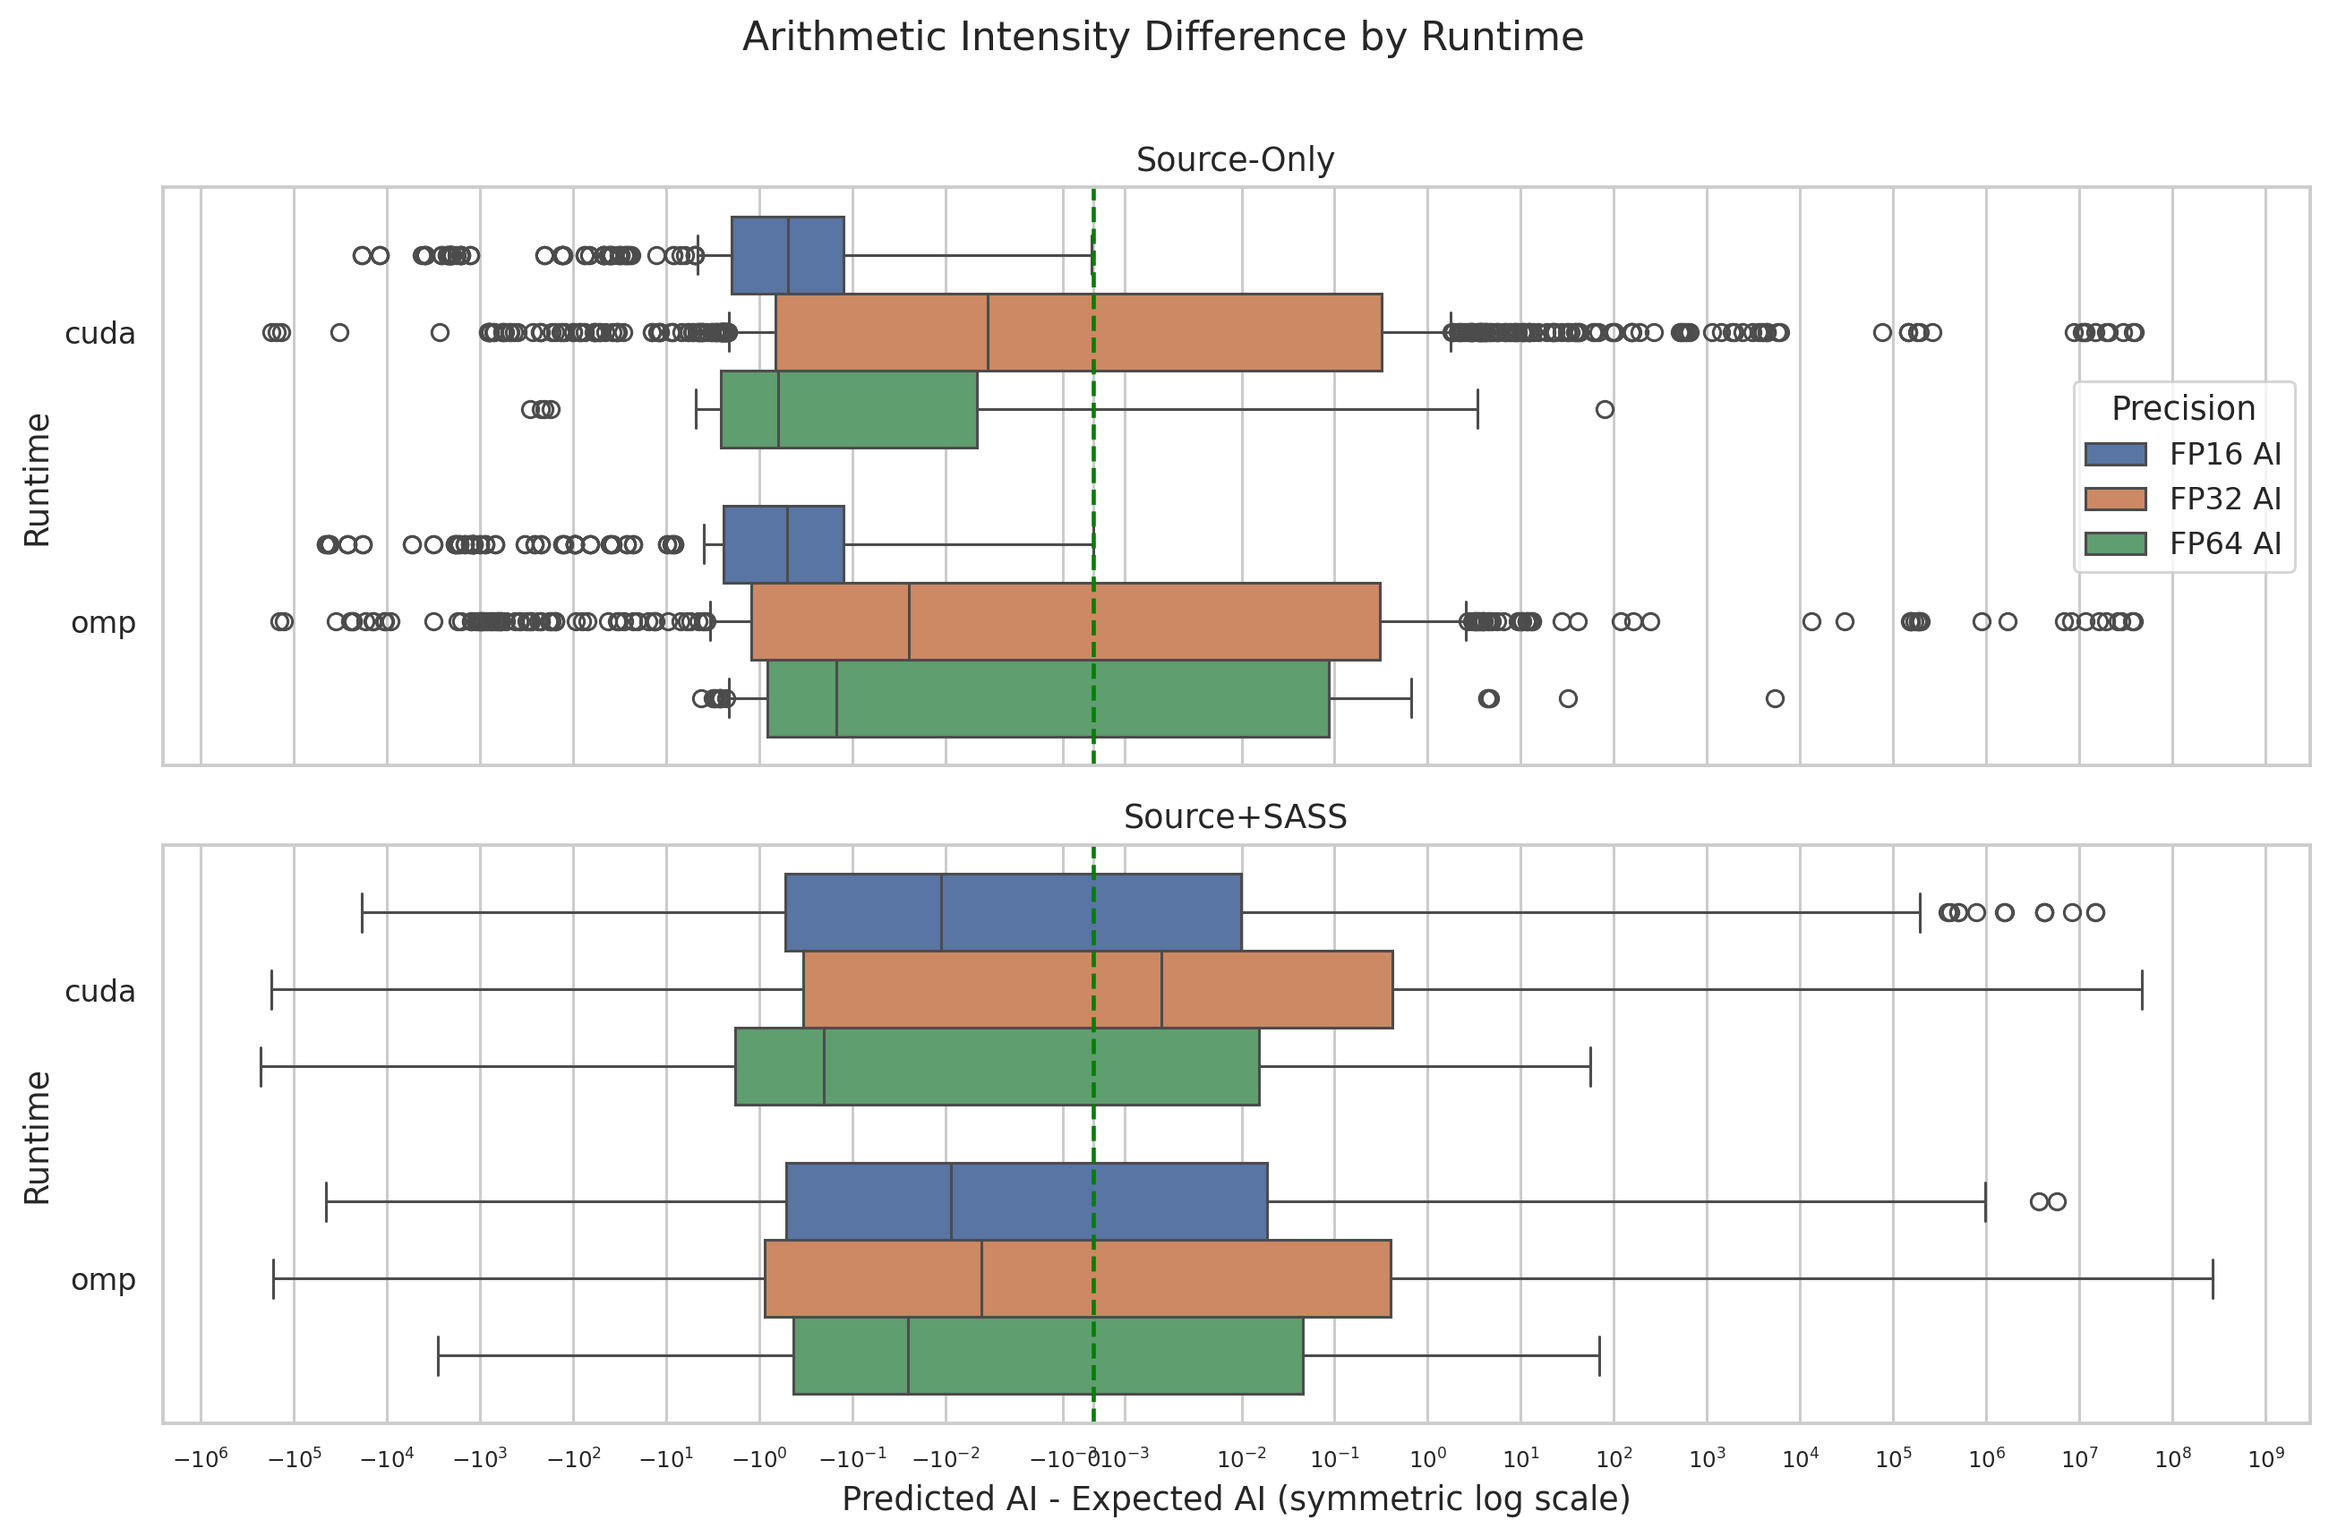
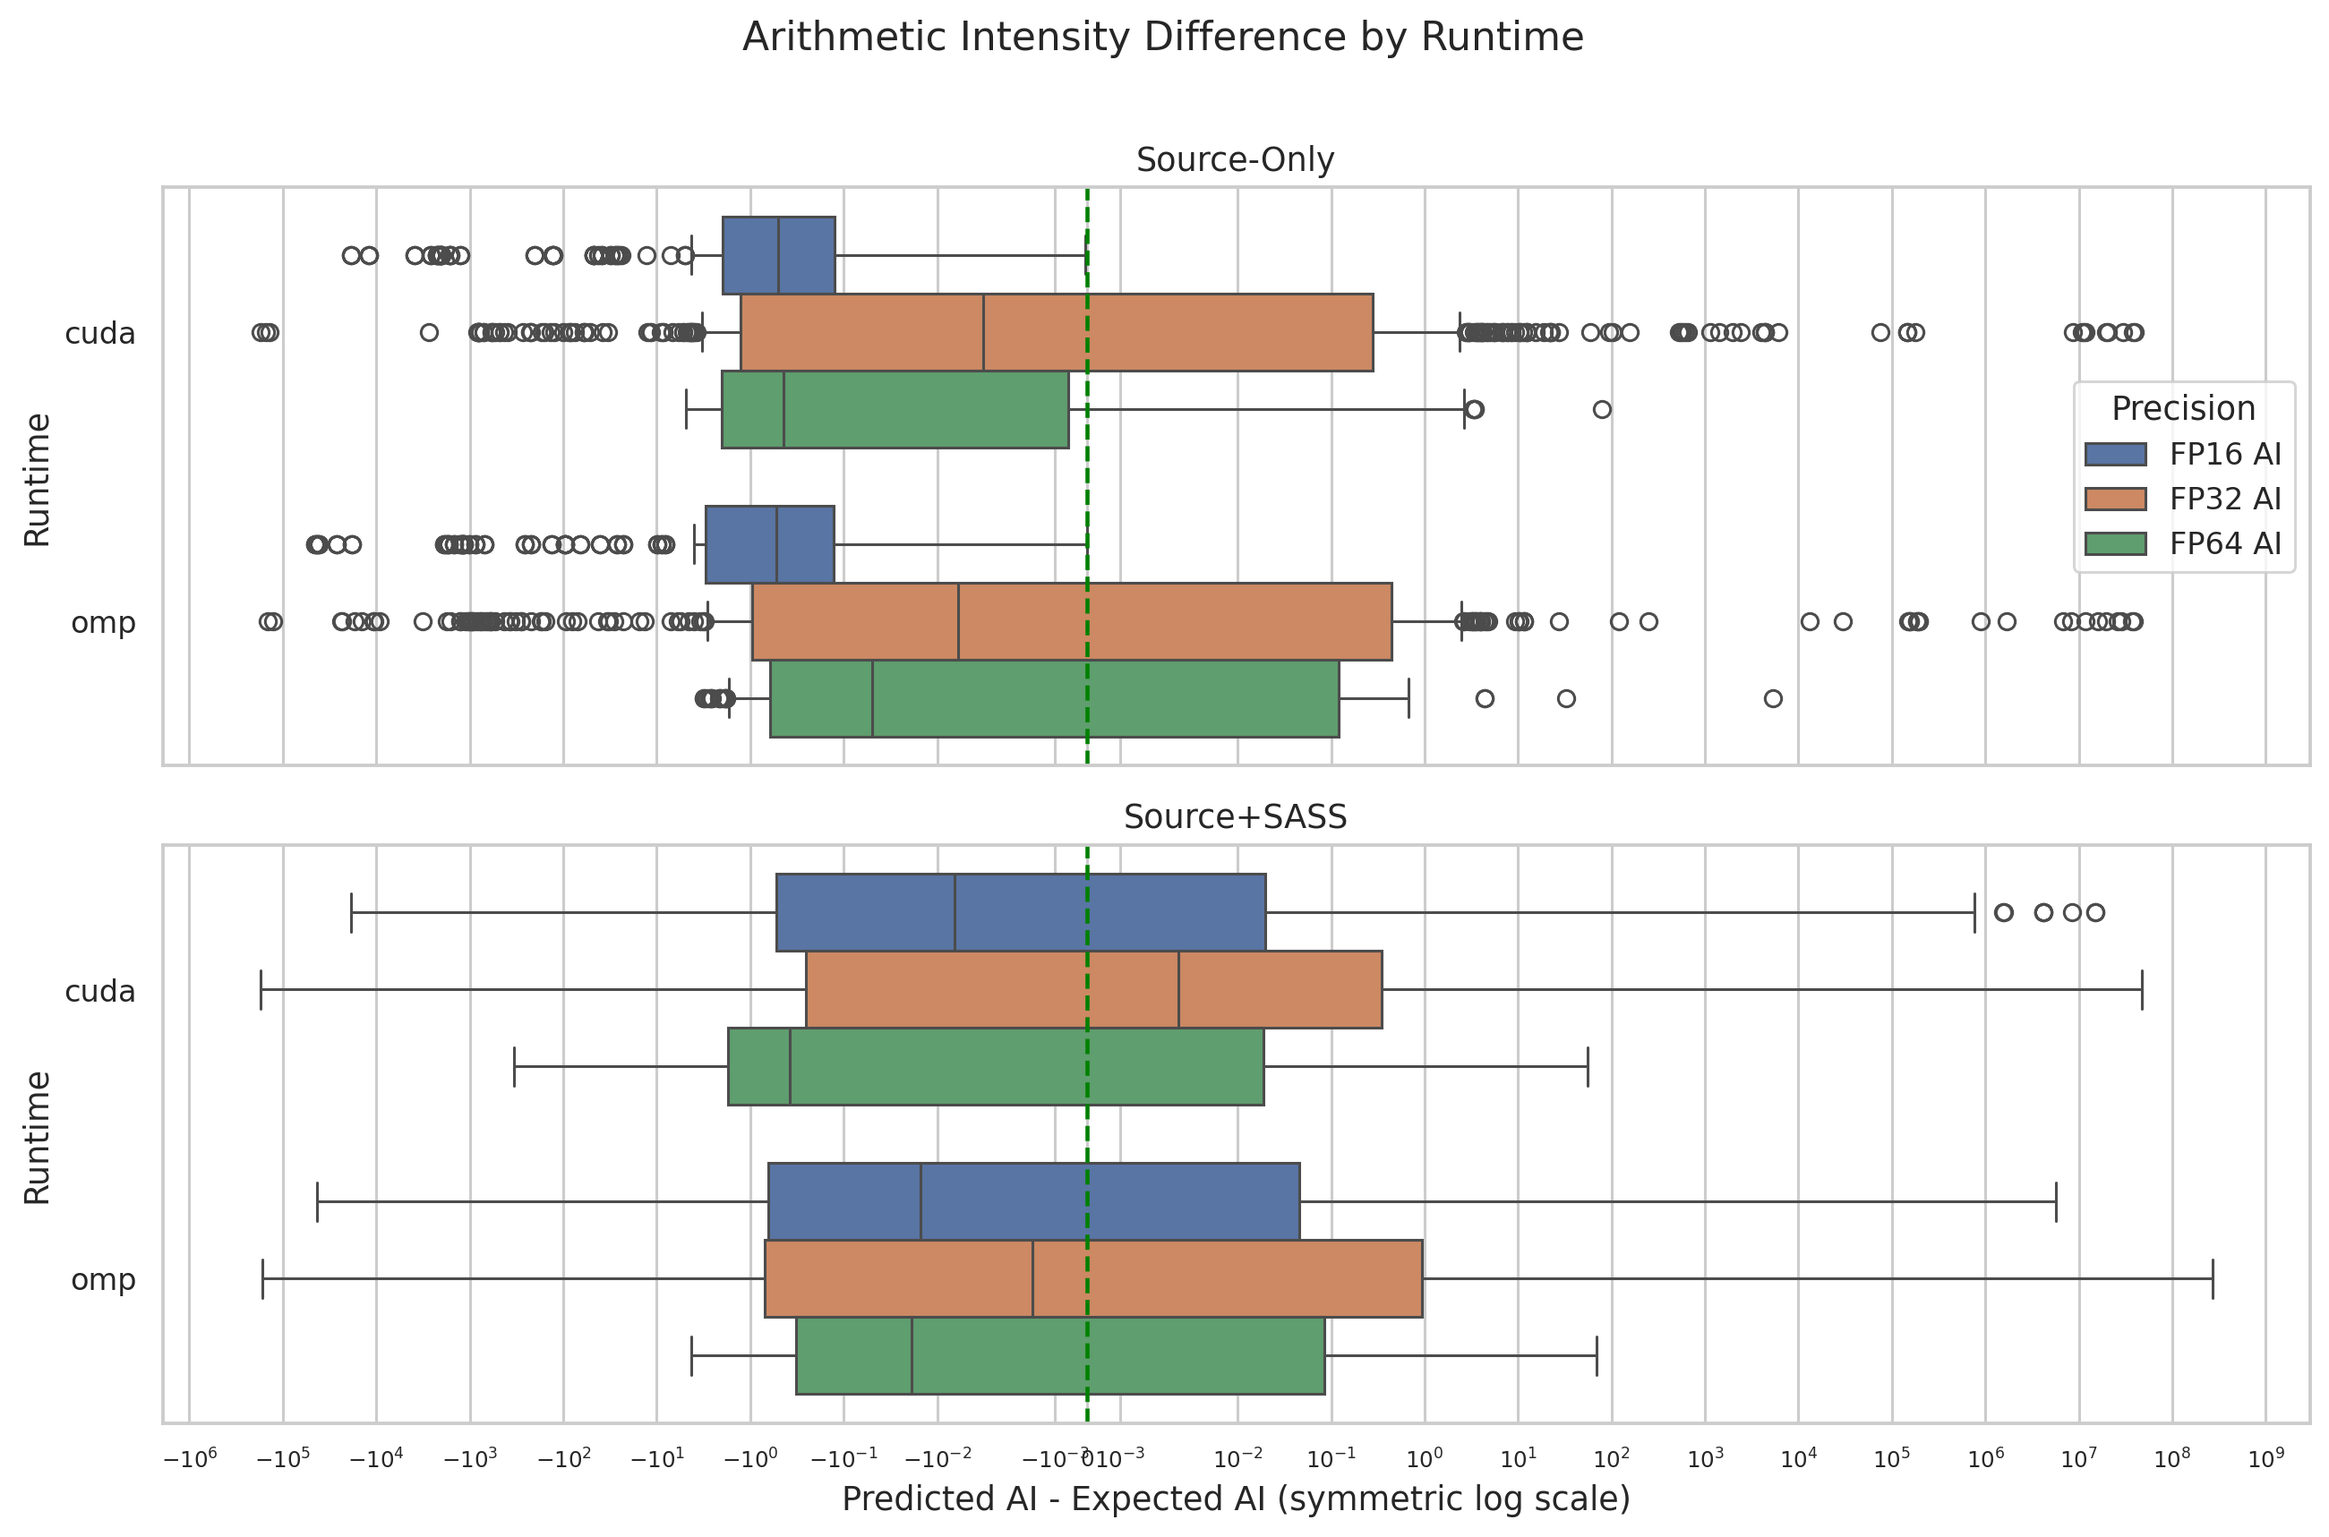
added sample overlap filter for comparable results

diff --git a/unit-tests/test_direct_prompting_evidence_config.py b/unit-tests/test_direct_prompting_evidence_config.py
@@ -1,6 +1,7 @@
 import importlib.util
 from pathlib import Path
 
+import pandas as pd
 import pytest
 
 
@@ -19,6 +20,7 @@ def _load_module(module_name: str, relative_path: str):
 prompts = _load_module("direct_prompting_prompts", "experiments/direct-prompting/prompts.py")
 run_queries = _load_module("direct_prompting_run_queries", "experiments/direct-prompting/run_queries.py")
 visualize_results = _load_module("direct_prompting_visualize_results", "experiments/direct-prompting/visualize_results.py")
+make_plots_for_paper = _load_module("direct_prompting_make_plots_for_paper", "experiments/direct-prompting/make_plots_for_paper.py")
 db_manager = _load_module("direct_prompting_db_manager", "experiments/direct-prompting/db_manager.py")
 
 
@@ -82,6 +84,26 @@ def _completed_channel_values(**overrides):
     }
     channel_values.update(overrides)
     return channel_values
+
+
+def _shared_sample_row(**overrides):
+    row = {
+        "thread_id": "thread-0",
+        "status": "completed",
+        "program_name": "demo-cuda",
+        "runtime": "cuda",
+        "kernel_mangled_name": "_Z4demov",
+        "kernel_demangled_name": "demo()",
+        "model_name": "openai/gpt-5.4",
+        "safe_model_name": "openai_gpt-5.4",
+        "use_sass": False,
+        "use_imix": False,
+        "evidence_configuration": "No SASS / No IMIX",
+        "gpu": "A100",
+        "trial": 0,
+    }
+    row.update(overrides)
+    return row
 
 
 @pytest.mark.parametrize(
@@ -320,3 +342,80 @@ def test_database_dataframe_uses_valid_tails_and_ignores_skipped_invalid_threads
 
     assert samples_df["thread_id"].tolist() == [valid_thread_id]
     assert samples_df.iloc[0]["status"] == "completed"
+
+
+def test_filter_only_shared_samples_keeps_only_identities_present_for_all_models():
+    dataframe = pd.DataFrame(
+        [
+            _shared_sample_row(thread_id="model-a-shared", model_name="model-a"),
+            _shared_sample_row(thread_id="model-b-shared", model_name="model-b"),
+            _shared_sample_row(thread_id="model-a-missing", model_name="model-a", kernel_mangled_name="_Z7missedv"),
+        ]
+    )
+
+    filtered = visualize_results._filter_only_shared_samples(dataframe)
+
+    assert set(filtered["thread_id"].tolist()) == {"model-a-shared", "model-b-shared"}
+    assert set(filtered["model_name"].tolist()) == {"model-a", "model-b"}
+    assert set(filtered["kernel_mangled_name"].tolist()) == {"_Z4demov"}
+
+
+def test_filter_only_shared_samples_uses_completed_rows_for_eligibility():
+    dataframe = pd.DataFrame(
+        [
+            _shared_sample_row(thread_id="model-a-completed", model_name="model-a"),
+            _shared_sample_row(thread_id="model-b-failed", model_name="model-b", status="failed"),
+            _shared_sample_row(thread_id="model-a-other", model_name="model-a", kernel_mangled_name="_Z5otherv"),
+            _shared_sample_row(thread_id="model-b-other", model_name="model-b", kernel_mangled_name="_Z5otherv"),
+        ]
+    )
+
+    filtered = visualize_results._filter_only_shared_samples(dataframe)
+
+    assert set(filtered["thread_id"].tolist()) == {"model-a-other", "model-b-other"}
+    assert "model-b-failed" not in filtered["thread_id"].tolist()
+
+
+def test_filter_only_shared_samples_keeps_gpu_and_evidence_configuration_in_key():
+    dataframe = pd.DataFrame(
+        [
+            _shared_sample_row(thread_id="a100-model-a", model_name="model-a"),
+            _shared_sample_row(thread_id="a100-model-b", model_name="model-b"),
+            _shared_sample_row(thread_id="h100-model-a", model_name="model-a", gpu="H100"),
+            _shared_sample_row(thread_id="sass-model-a", model_name="model-a", use_sass=True, evidence_configuration="SASS Only"),
+            _shared_sample_row(thread_id="sass-model-b", model_name="model-b", use_sass=True, evidence_configuration="SASS Only"),
+            _shared_sample_row(thread_id="imix-model-a", model_name="model-a", use_imix=True, evidence_configuration="IMIX Only"),
+        ]
+    )
+
+    filtered = visualize_results._filter_only_shared_samples(dataframe)
+
+    assert set(filtered["thread_id"].tolist()) == {
+        "a100-model-a",
+        "a100-model-b",
+        "sass-model-a",
+        "sass-model-b",
+    }
+    assert "h100-model-a" not in filtered["thread_id"].tolist()
+    assert "imix-model-a" not in filtered["thread_id"].tolist()
+
+
+def test_visualize_results_parser_accepts_only_shared_samples_flag():
+    parser = visualize_results.build_arg_parser()
+
+    default_args = parser.parse_args([])
+    flagged_args = parser.parse_args(["--onlySharedSamples", "--includeIMIX"])
+
+    assert default_args.onlySharedSamples is False
+    assert flagged_args.onlySharedSamples is True
+    assert flagged_args.includeIMIX is True
+
+
+def test_make_plots_for_paper_parser_accepts_only_shared_samples_flag():
+    parser = make_plots_for_paper.build_arg_parser()
+
+    default_args = parser.parse_args([])
+    flagged_args = parser.parse_args(["--onlySharedSamples"])
+
+    assert default_args.onlySharedSamples is False
+    assert flagged_args.onlySharedSamples is True

diff --git a/experiments/direct-prompting/visualize_results.py b/experiments/direct-prompting/visualize_results.py
@@ -512,6 +512,47 @@ def _database_dataframe(latest_checkpoints: Dict[str, Dict[str, Any]], attempts:
 	return full_df
 
 
+def _shared_sample_identity_columns() -> List[str]:
+	return ["program_name", "kernel_mangled_name", "gpu", "use_sass", "use_imix"]
+
+
+def _filter_only_shared_samples(dataframe: pd.DataFrame) -> pd.DataFrame:
+	if dataframe.empty:
+		return dataframe.copy()
+
+	required_columns = _shared_sample_identity_columns() + ["model_name", "status"]
+	missing_columns = [column for column in required_columns if column not in dataframe.columns]
+	if missing_columns:
+		raise KeyError(f"Shared-sample filtering requires columns {missing_columns}")
+
+	filtered_df = dataframe.copy()
+	filtered_df["use_sass"] = filtered_df["use_sass"].fillna(False).astype(bool)
+	filtered_df["use_imix"] = filtered_df["use_imix"].fillna(False).astype(bool)
+	filtered_df = filtered_df[filtered_df["model_name"].notna()].copy()
+	if filtered_df.empty:
+		return filtered_df
+
+	all_models = set(filtered_df["model_name"].dropna().unique().tolist())
+	if not all_models:
+		return filtered_df.iloc[0:0].copy()
+
+	completed_df = filtered_df[filtered_df["status"] == "completed"].copy()
+	if completed_df.empty:
+		return filtered_df.iloc[0:0].copy()
+
+	shared_sample_counts = (
+		completed_df.groupby(_shared_sample_identity_columns(), dropna=False)["model_name"]
+		.nunique()
+		.reset_index(name="model_count")
+	)
+	shared_sample_counts = shared_sample_counts[shared_sample_counts["model_count"] == len(all_models)].copy()
+	if shared_sample_counts.empty:
+		return filtered_df.iloc[0:0].copy()
+
+	shared_sample_keys = shared_sample_counts[_shared_sample_identity_columns()].drop_duplicates()
+	return filtered_df.merge(shared_sample_keys, on=_shared_sample_identity_columns(), how="inner")
+
+
 def _plot_evidence_configuration_label(use_sass: Any, use_imix: Any) -> str:
 	return PLOT_EVIDENCE_CONFIGURATION_LABELS[(bool(use_sass), bool(use_imix))]
 
@@ -1171,7 +1212,7 @@ def _write_suggestions(output_path: Path) -> None:
 	output_path.write_text("\n".join(f"- {item}" for item in suggestions) + "\n", encoding="utf-8")
 
 
-def build_visualizations(db_uri: str, output_dir: Path, include_dry_run: bool, include_imix: bool) -> None:
+def build_visualizations(db_uri: str, output_dir: Path, include_dry_run: bool, include_imix: bool, only_shared_samples: bool) -> None:
 	output_dir.mkdir(parents=True, exist_ok=True)
 
 	parser = CheckpointDBParser(db_uri)
@@ -1210,6 +1251,8 @@ def build_visualizations(db_uri: str, output_dir: Path, include_dry_run: bool, i
 			)
 
 	samples_df = _database_dataframe(tail_checkpoints, attempts, include_dry_run)
+	if only_shared_samples:
+		samples_df = _filter_only_shared_samples(samples_df)
 
 	if samples_df.empty:
 		raise RuntimeError("No matching checkpoint or failed-attempt records were found in the database.")
@@ -1319,7 +1362,7 @@ def build_visualizations(db_uri: str, output_dir: Path, include_dry_run: bool, i
 		print(f"- {path}")
 
 
-def main() -> None:
+def build_arg_parser() -> argparse.ArgumentParser:
 	parser = argparse.ArgumentParser(description="Visualize direct prompting results from PostgreSQL checkpoints")
 	parser.add_argument("--dbUri", type=str, default=None, help="Explicit PostgreSQL database URI. Defaults to the local gpuflops_db database.")
 	parser.add_argument(
@@ -1338,11 +1381,21 @@ def main() -> None:
 		action="store_true",
 		help="Include Source+IMIX and Source+SASS+IMIX categories in the plots. By default, plots show only Source-Only and Source+SASS.",
 	)
+	parser.add_argument(
+		"--onlySharedSamples",
+		action="store_true",
+		help="Keep only kernel samples that have at least one completed row for every model name, matched by program name, kernel name, GPU, and evidence configuration.",
+	)
+	return parser
+
+
+def main() -> None:
+	parser = build_arg_parser()
 	args = parser.parse_args()
 
 	ensure_postgres_running()
 	db_uri = args.dbUri or setup_default_database()
-	build_visualizations(db_uri, Path(args.outputDir), args.includeDryRun, args.includeIMIX)
+	build_visualizations(db_uri, Path(args.outputDir), args.includeDryRun, args.includeIMIX, args.onlySharedSamples)
 
 
 if __name__ == "__main__":

diff --git a/experiments/direct-prompting/make_plots_for_paper.py b/experiments/direct-prompting/make_plots_for_paper.py
@@ -843,13 +843,15 @@ def _save_figure2_bound_heatmaps(plot_df: pd.DataFrame, output_path: Path) -> No
 	plt.close(fig)
 
 
-def build_paper_plots(db_uri: str, output_dir: Path, include_dry_run: bool) -> None:
+def build_paper_plots(db_uri: str, output_dir: Path, include_dry_run: bool, only_shared_samples: bool) -> None:
 	output_dir.mkdir(parents=True, exist_ok=True)
 	samples_df = _load_samples_dataframe(db_uri, include_dry_run)
 	if samples_df.empty:
 		raise RuntimeError("No matching checkpoint or failed-attempt records were found in the database.")
 
 	completed_df = _enrich_completed_dataframe(samples_df)
+	if only_shared_samples:
+		completed_df = visualize_results._filter_only_shared_samples(completed_df)
 	plot_df = _paper_subset(completed_df)
 	if plot_df.empty:
 		raise RuntimeError(
@@ -878,7 +880,7 @@ def build_paper_plots(db_uri: str, output_dir: Path, include_dry_run: bool) -> N
 	print(f"- {figure5_path}")
 
 
-def main() -> None:
+def build_arg_parser() -> argparse.ArgumentParser:
 	arg_parser = argparse.ArgumentParser(description="Generate paper plots from direct-prompting PostgreSQL checkpoints")
 	arg_parser.add_argument(
 		"--dbUri",
@@ -897,12 +899,22 @@ def main() -> None:
 		action="store_true",
 		help="Include dry-run thread IDs in the paper plots. By default they are excluded.",
 	)
+	arg_parser.add_argument(
+		"--onlySharedSamples",
+		action="store_true",
+		help="Keep only kernel samples that have at least one completed row for every model name, matched by program name, kernel name, GPU, and evidence configuration.",
+	)
+	return arg_parser
+
+
+def main() -> None:
+	arg_parser = build_arg_parser()
 	args = arg_parser.parse_args()
 
 	_print_roofline_specs()
 	visualize_results.ensure_postgres_running()
 	db_uri = args.dbUri or visualize_results.setup_default_database()
-	build_paper_plots(db_uri, Path(args.outputDir), args.includeDryRun)
+	build_paper_plots(db_uri, Path(args.outputDir), args.includeDryRun, args.onlySharedSamples)
 
 
 if __name__ == "__main__":

diff --git a/experiments/direct-prompting/visualization-output/table1_model_percent_diff_summary.tex b/experiments/direct-prompting/visualization-output/table1_model_percent_diff_summary.tex
@@ -6,14 +6,12 @@
 \toprule
 model\_name & evidence\_configuration & mean\_percent\_diff & median\_percent\_diff & completed\_samples & failed\_samples \\
 \midrule
-anthropic/claude-4.6-opus & No SASS / No IMIX & 28839.0801 & 28.0805 & 1148 & 0 \\
-anthropic/claude-4.6-opus & SASS Only & 4870.3104 & 19.4542 & 1116 & 0 \\
-openai/gpt-5.4 & IMIX Only & 149223.1579 & 28.6677 & 1068 & 0 \\
-openai/gpt-5.4 & No SASS / No IMIX & 217535.803 & 28.5714 & 1095 & 1 \\
-openai/gpt-5.4 & SASS + IMIX & 27501.0273 & 28.542 & 1052 & 0 \\
-openai/gpt-5.4 & SASS Only & 55490.144 & 28.5571 & 1017 & 0 \\
-openai/gpt-oss-120b & No SASS / No IMIX & 700262.2483 & 28.5714 & 1139 & 197 \\
-openai/gpt-oss-120b & SASS Only & 123066.7816 & 28.5714 & 1168 & 224 \\
+anthropic/claude-4.6-opus & No SASS / No IMIX & 35844.16 & 28.1001 & 922 & 0 \\
+anthropic/claude-4.6-opus & SASS Only & 5145.987 & 19.8044 & 845 & 0 \\
+openai/gpt-5.4 & No SASS / No IMIX & 199061.6042 & 28.5716 & 922 & 0 \\
+openai/gpt-5.4 & SASS Only & 66708.2622 & 28.4408 & 845 & 0 \\
+openai/gpt-oss-120b & No SASS / No IMIX & 865024.5501 & 28.5714 & 922 & 0 \\
+openai/gpt-oss-120b & SASS Only & 167919.2332 & 28.8318 & 845 & 0 \\
 \bottomrule
 \end{tabular}
 \end{table}
